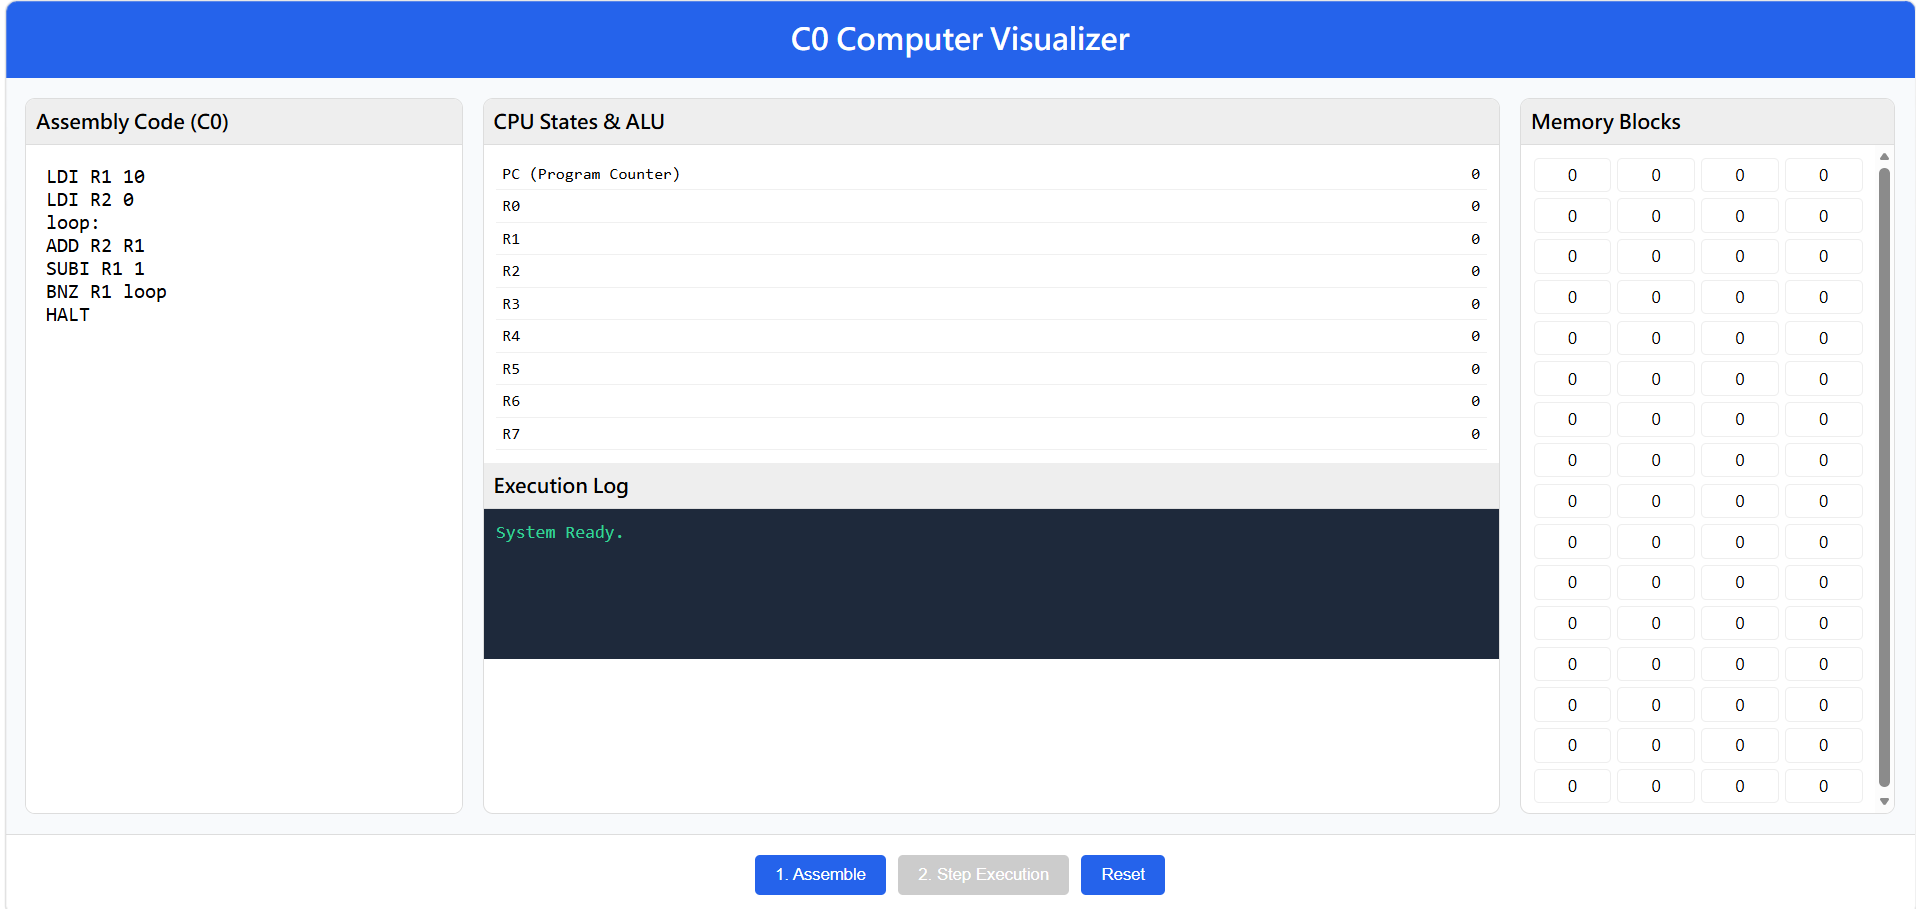
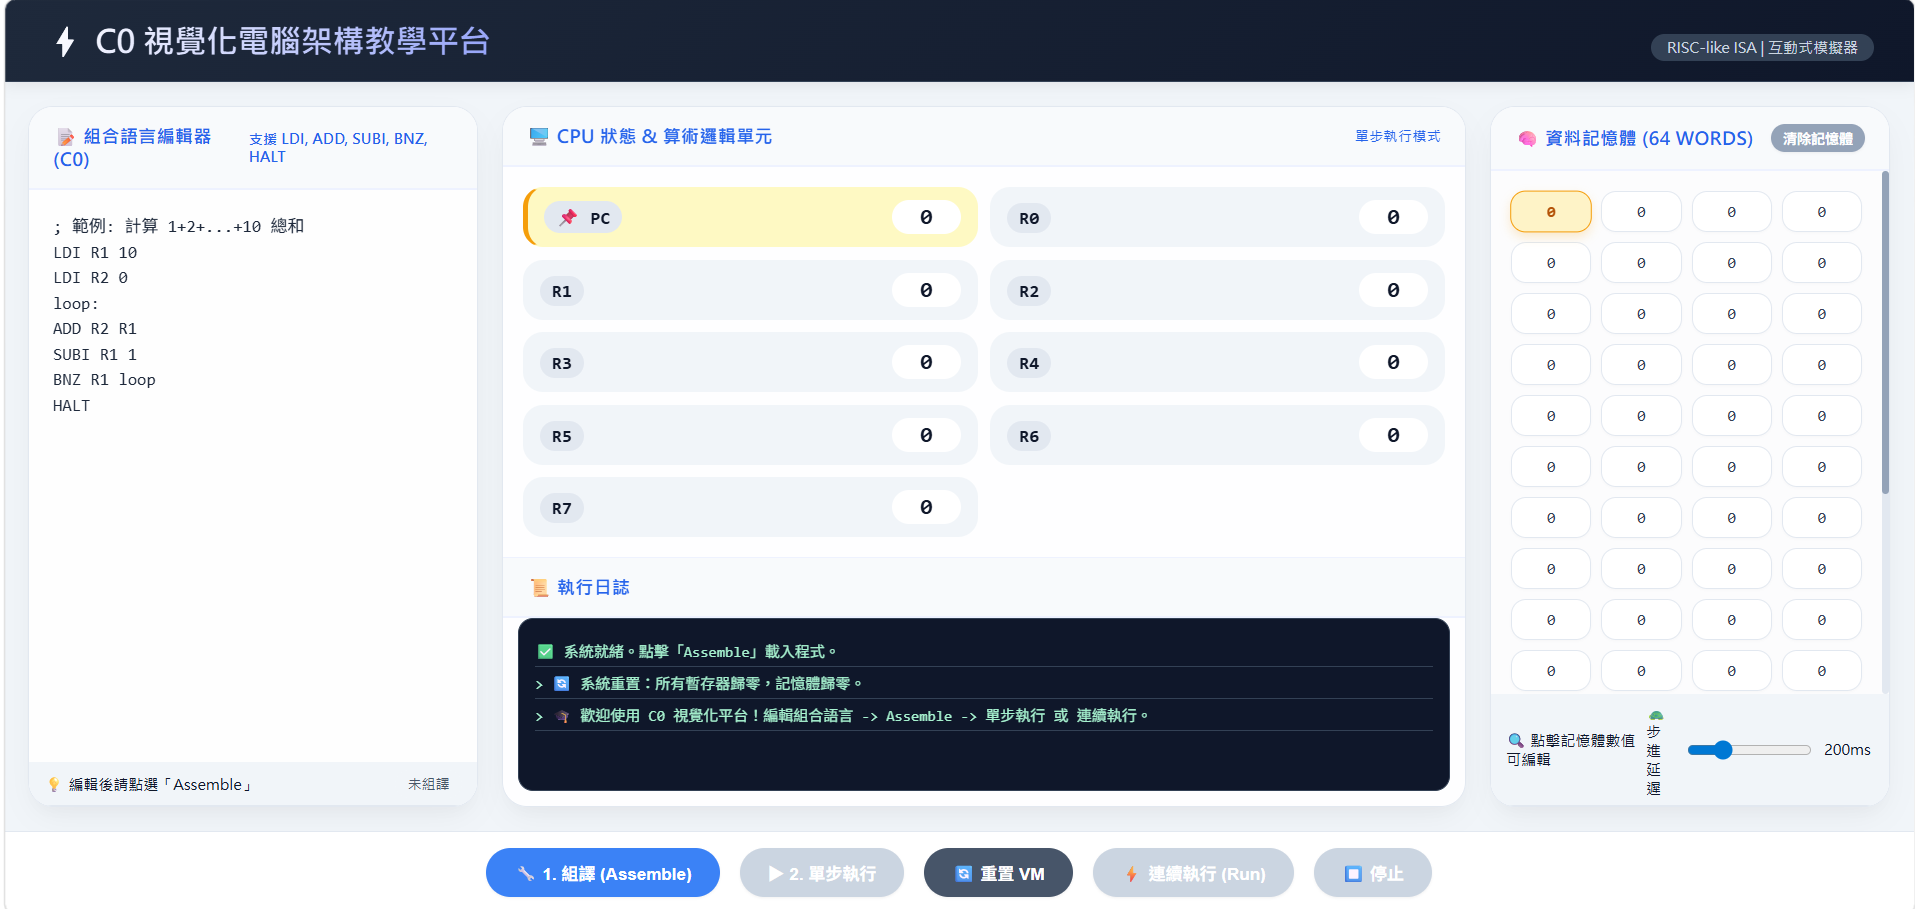
add homework

diff --git a/習題3/README.md b/習題3/README.md
@@ -2,10 +2,12 @@
 
 本專案包含兩個不同性質的程式實作，旨在透過 AI 輔助開發，分別呈現「底層電腦架構教學」與「高階邏輯/遊戲開發」兩個面向。
 
-
 ## 檔案清單與功能敘述
 
 ### 1. `index.html` - C0 視覺化電腦架構教學平台
+
+[C0 視覺化電腦架構教學平台網址](https://dong-huiyun.github.io/_sp/%E7%BF%92%E9%A1%8C3/)
+
 這是一個基於 Web 技術的互動式模擬器，用於教學與理解電腦底層運作原理。
 
 *   **專案類型**：前端網頁應用程式 (Single Page Application)。